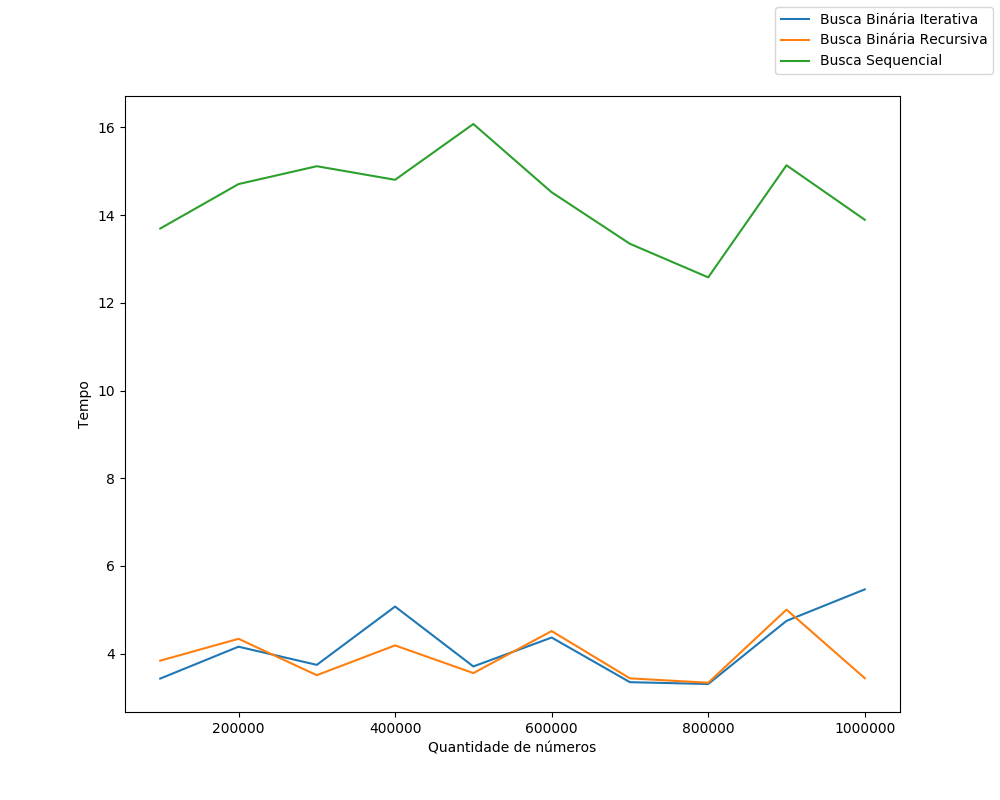
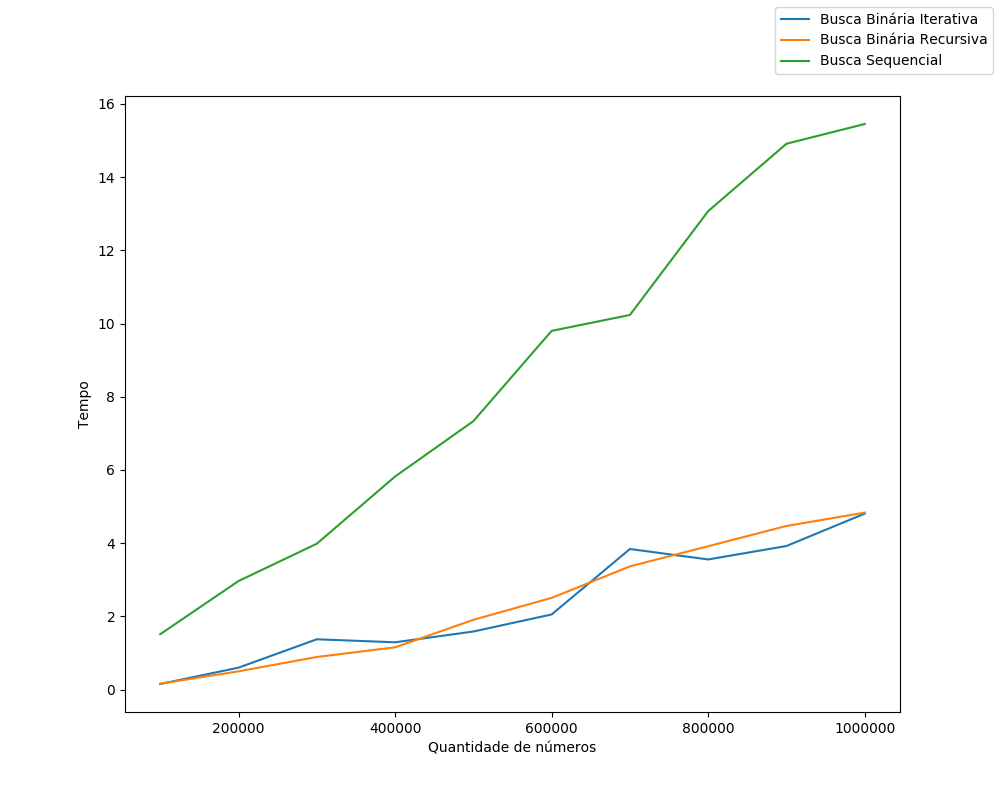
comparações

diff --git a/BinarySearch/BinarySearch.py b/BinarySearch/BinarySearch.py
@@ -91,11 +91,11 @@ yBuscaBinariaRecursiva = []
 yBuscaSequencial = []
 
 for i in x:
-  yBuscaBinariaIterativaa.append(timeit.timeit("buscaBinaria({}, {})".format(geraLista(1000000), 1000000),setup="from __main__ import buscaBinaria",number=100))
+  yBuscaBinariaIterativaa.append(timeit.timeit("buscaBinaria({}, {})".format(geraLista(i), i),setup="from __main__ import buscaBinaria",number=100))
 
-  yBuscaBinariaRecursiva.append(timeit.timeit("buscaBinariaRecursiva({}, {}, {}, {})".format(geraLista(1000000), 0, 10000, 1000000),setup="from __main__ import buscaBinariaRecursiva",number=100))
+  yBuscaBinariaRecursiva.append(timeit.timeit("buscaBinariaRecursiva({}, {}, {}, {})".format(geraLista(i), 0, i, i),setup="from __main__ import buscaBinariaRecursiva",number=100))
 
-  yBuscaSequencial.append(timeit.timeit("buscaSequencial({}, {})".format(geraLista(1000000), 1000000),setup="from __main__ import buscaSequencial",number=100))
+  yBuscaSequencial.append(timeit.timeit("buscaSequencial({}, {})".format(geraLista(i), i),setup="from __main__ import buscaSequencial",number=100))
 
 tempos = [yBuscaBinariaIterativaa, yBuscaBinariaRecursiva, yBuscaSequencial]
 labels = ['Busca Binária Iterativa', 'Busca Binária Recursiva', 'Busca Sequencial']
